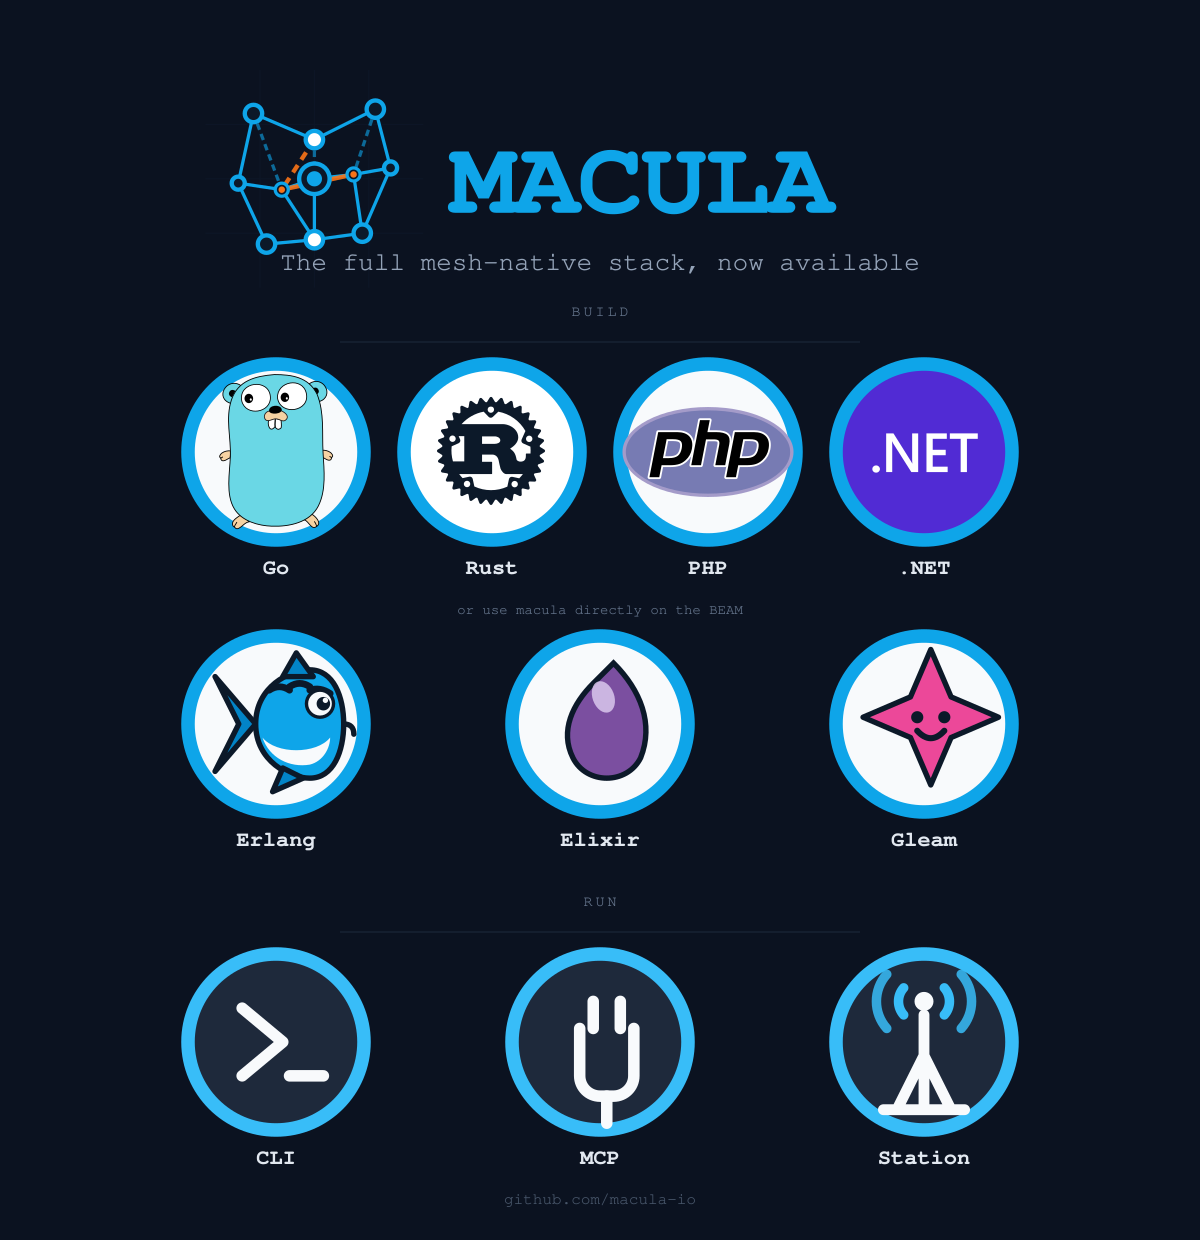
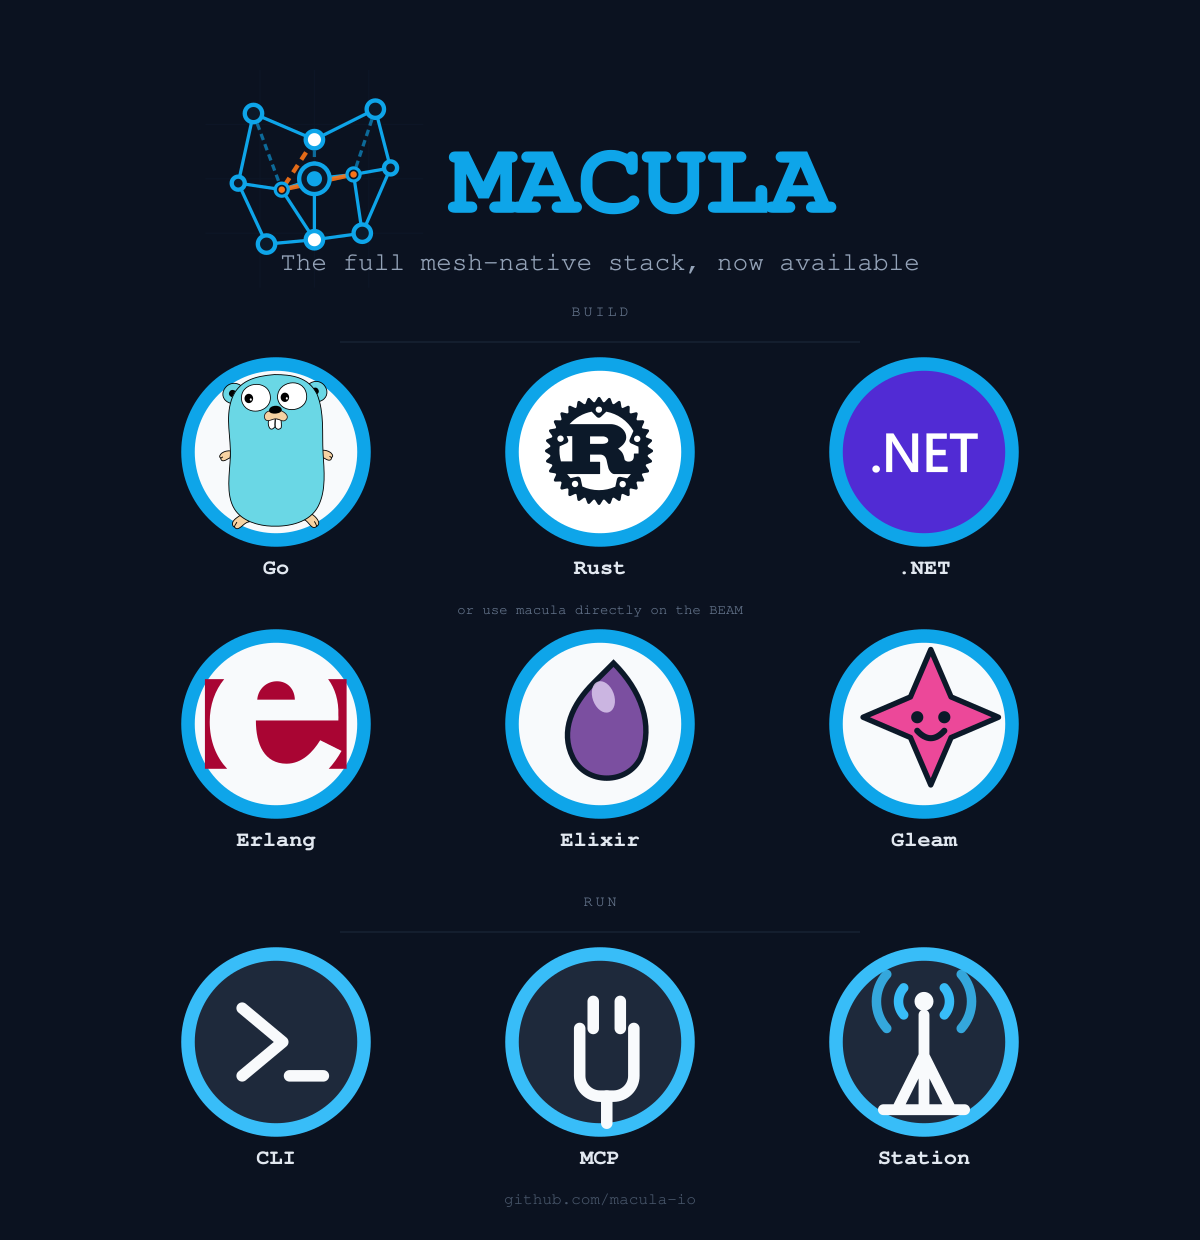
Use the real Erlang mark in the ecosystem card, drop PHP
Erlang's badge is now the actual Ericsson-red Erlang/OTP mark (verbatim,
like Go/Rust/.NET) instead of Macrel - Macrel stays only in the
speculative macula-erl mockup. Dropping PHP from this card gives a
clean 3x3 grid; its own SDK repo and the original SDK banner are
untouched.

Changed region(s): [[0.3083, 0.2758, 0.6783, 0.4597], [0.1542, 0.521, 0.3083, 0.6435]]

diff --git a/README.md b/README.md
@@ -58,16 +58,17 @@ used as each repo's own README badge — macula-cli (terminal), macula-mcp
 ### Ecosystem Announcement Card
 
 Combines the two banners above into one card, under the same long-form
-logo: a **BUILD** row splits into the four dedicated-port SDK badges
-(Go/Rust/PHP/.NET) and a second sub-row for the three languages that need
-no port because they already run on the BEAM (Erlang — badge is Macrel,
-see below — Elixir, Gleam), then a **RUN** row with the three deployable
-badges. SDK and deployable badge artwork reused verbatim from the two
-banners; the BEAM-native sub-row is original artwork (Erlang's Macrel
-plus simplified Elixir/Gleam marks, not verbatim brand assets). Taller
-than the single-row banners (1200×1240, not 1200×630) since ten badges
-don't fit one LinkedIn-safe row — sized for a README hero or a taller
-post, not the strict 1.91:1 safe zone.
+logo: a **BUILD** row splits into the three dedicated-port SDK badges
+(Go/Rust/.NET — PHP dropped from this card only, for a clean 3×3 grid;
+its own SDK repo and the original SDK banner are untouched) and a second
+sub-row for the three languages that need no port because they already
+run on the BEAM (Erlang, Elixir, Gleam), then a **RUN** row with the three
+deployable badges. SDK, Erlang, and deployable badges are verbatim brand
+marks; Elixir/Gleam are original simplified renditions (no local asset to
+reuse verbatim, unlike the others). Taller than the single-row banners
+(1200×1240, not 1200×630) since nine badges don't fit one LinkedIn-safe
+row — sized for a README hero or a taller post, not the strict 1.91:1
+safe zone.
 
 | Asset | Link |
 |-------|------|
@@ -86,8 +87,9 @@ currently un-suffixed while its ports are
 or Rust's crab represent theirs. Lives at badge scale only — sits in a
 `macula-erl` full-logo mockup for if a `macula → macula-erl` rename ever
 actually happens (**not an executed rename** — the core package, its hex
-name, and every consumer's dependency stay exactly as they are today), and
-in the ecosystem card above as the "Erlang" badge.
+name, and every consumer's dependency stay exactly as they are today).
+The ecosystem card above uses the real Erlang/OTP mark for its "Erlang"
+badge instead, so Macrel doesn't appear there.
 
 | Variant | SVG |
 |---------|-----|
